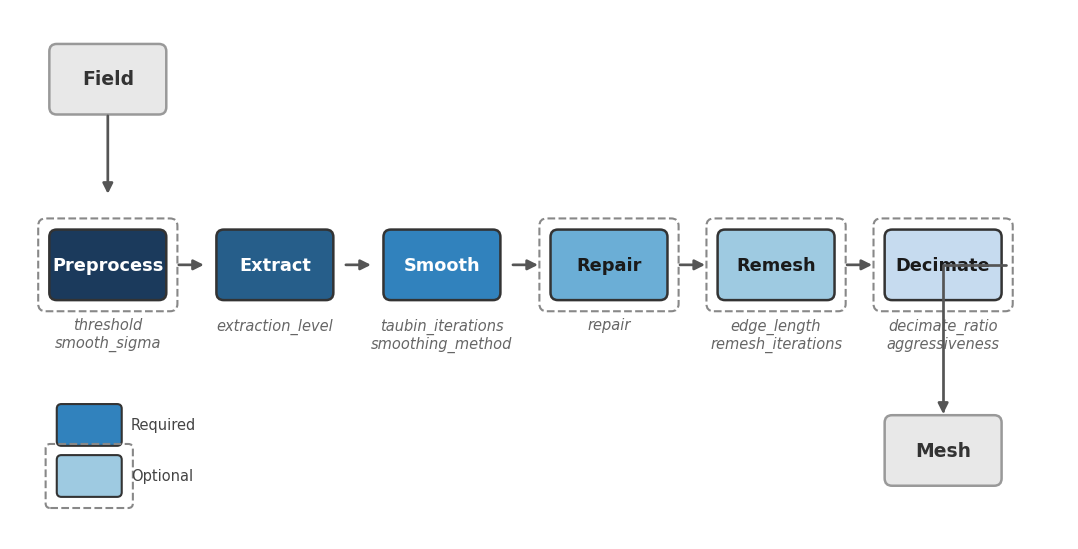
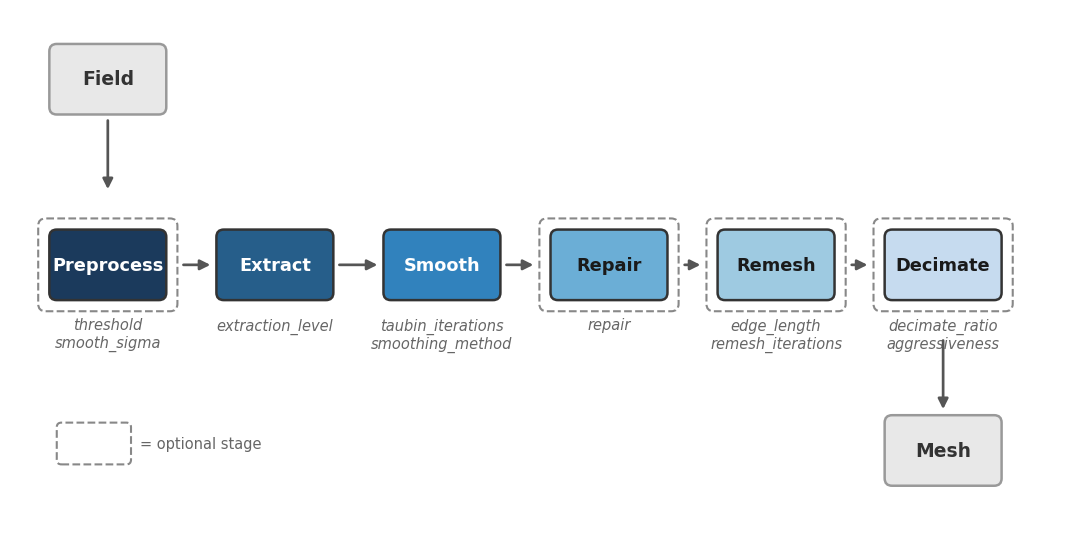
fix: proper arrow spacing from box borders, simplified optional legend
- Arrows now compute clearance per-box (solid vs dashed outline)
- Decimate→Mesh uses straight vertical arrow instead of angled hack
- Legend simplified to just a dashed rectangle + "= optional stage"

diff --git a/scripts/generate_doc_images.py b/scripts/generate_doc_images.py
@@ -168,52 +168,45 @@ def gen_pipeline_diagram() -> None:
 
     # --- Arrows ---
     arrow_kw = dict(arrowstyle="-|>", color="#555555", lw=1.3)
-    edge = box_hw + dash_gap + 0.05  # clear the dashed outline
+    arrow_gap = 0.1  # clearance between arrow tip and nearest border
+
+    def _box_edge(label, is_terminal=False):
+        """Return half-extent from center to outermost border (including dashed)."""
+        hw = box_hw
+        if not is_terminal and label in optional_stages:
+            hw += dash_gap
+        return hw
 
     # Field → Preprocess (vertical)
-    ax.annotate("", xy=(field_x, edge),
-                xytext=(field_x, field_y - box_hh - 0.05),
+    ax.annotate("",
+                xy=(field_x, _box_edge("Preprocess") + arrow_gap),
+                xytext=(field_x, field_y - box_hh - arrow_gap),
                 arrowprops=arrow_kw)
 
     # Horizontal arrows between stages
     for i in range(len(stages) - 1):
-        ax.annotate("", xy=(stage_x[i + 1] - edge, 0),
-                    xytext=(stage_x[i] + edge, 0),
+        src, dst = stages[i], stages[i + 1]
+        x_start = stage_x[i] + _box_edge(src) + arrow_gap
+        x_end = stage_x[i + 1] - _box_edge(dst) - arrow_gap
+        ax.annotate("", xy=(x_end, 0), xytext=(x_start, 0),
                     arrowprops=arrow_kw)
 
-    # Decimate → Mesh (route from right edge to avoid annotation overlap)
-    ax.annotate("", xy=(mesh_x, mesh_y + box_hh + 0.05),
-                xytext=(mesh_x + edge, 0),
-                arrowprops=dict(arrowstyle="-|>", color="#555555", lw=1.3,
-                                connectionstyle="angle,angleA=0,angleB=90"))
+    # Decimate → Mesh (straight vertical)
+    ax.annotate("",
+                xy=(mesh_x, mesh_y + box_hh + arrow_gap),
+                xytext=(mesh_x, -(_box_edge("Decimate") + arrow_gap)),
+                arrowprops=arrow_kw)
 
-    # --- Legend ---
+    # --- Legend (bottom-left) ---
     leg_x = -0.5
-    leg_y = -row_gap + 0.1
-    # Required stage sample
+    leg_y = -row_gap - 0.1
     ax.add_patch(matplotlib.patches.FancyBboxPatch(
-        (leg_x, leg_y), 0.6, 0.35,
-        boxstyle="round,pad=0.05",
-        facecolor="#3182BD", edgecolor="#333333", linewidth=1.0,
-    ))
-    ax.text(leg_x + 0.75, leg_y + 0.175, "Required", ha="left", va="center",
-            fontsize=7, color="#444444")
-
-    # Optional stage sample (solid box + dashed outline)
-    opt_y = leg_y - 0.55
-    ax.add_patch(matplotlib.patches.FancyBboxPatch(
-        (leg_x, opt_y), 0.6, 0.35,
-        boxstyle="round,pad=0.05",
-        facecolor="#9ECAE1", edgecolor="#333333", linewidth=1.0,
-    ))
-    d = dash_gap
-    ax.add_patch(matplotlib.patches.FancyBboxPatch(
-        (leg_x - d, opt_y - d), 0.6 + d * 2, 0.35 + d * 2,
+        (leg_x, leg_y), 0.7, 0.35,
         boxstyle="round,pad=0.05",
         facecolor="none", edgecolor="#888888", linewidth=1.0, linestyle="--",
     ))
-    ax.text(leg_x + 0.75, opt_y + 0.175, "Optional", ha="left", va="center",
-            fontsize=7, color="#444444")
+    ax.text(leg_x + 0.85, leg_y + 0.175, "= optional stage",
+            ha="left", va="center", fontsize=7, color="#666666")
 
     fig.savefig(OUTPUT_DIR / "pipeline-flow.png", dpi=DPI, bbox_inches="tight",
                 facecolor=BG_COLOR)
